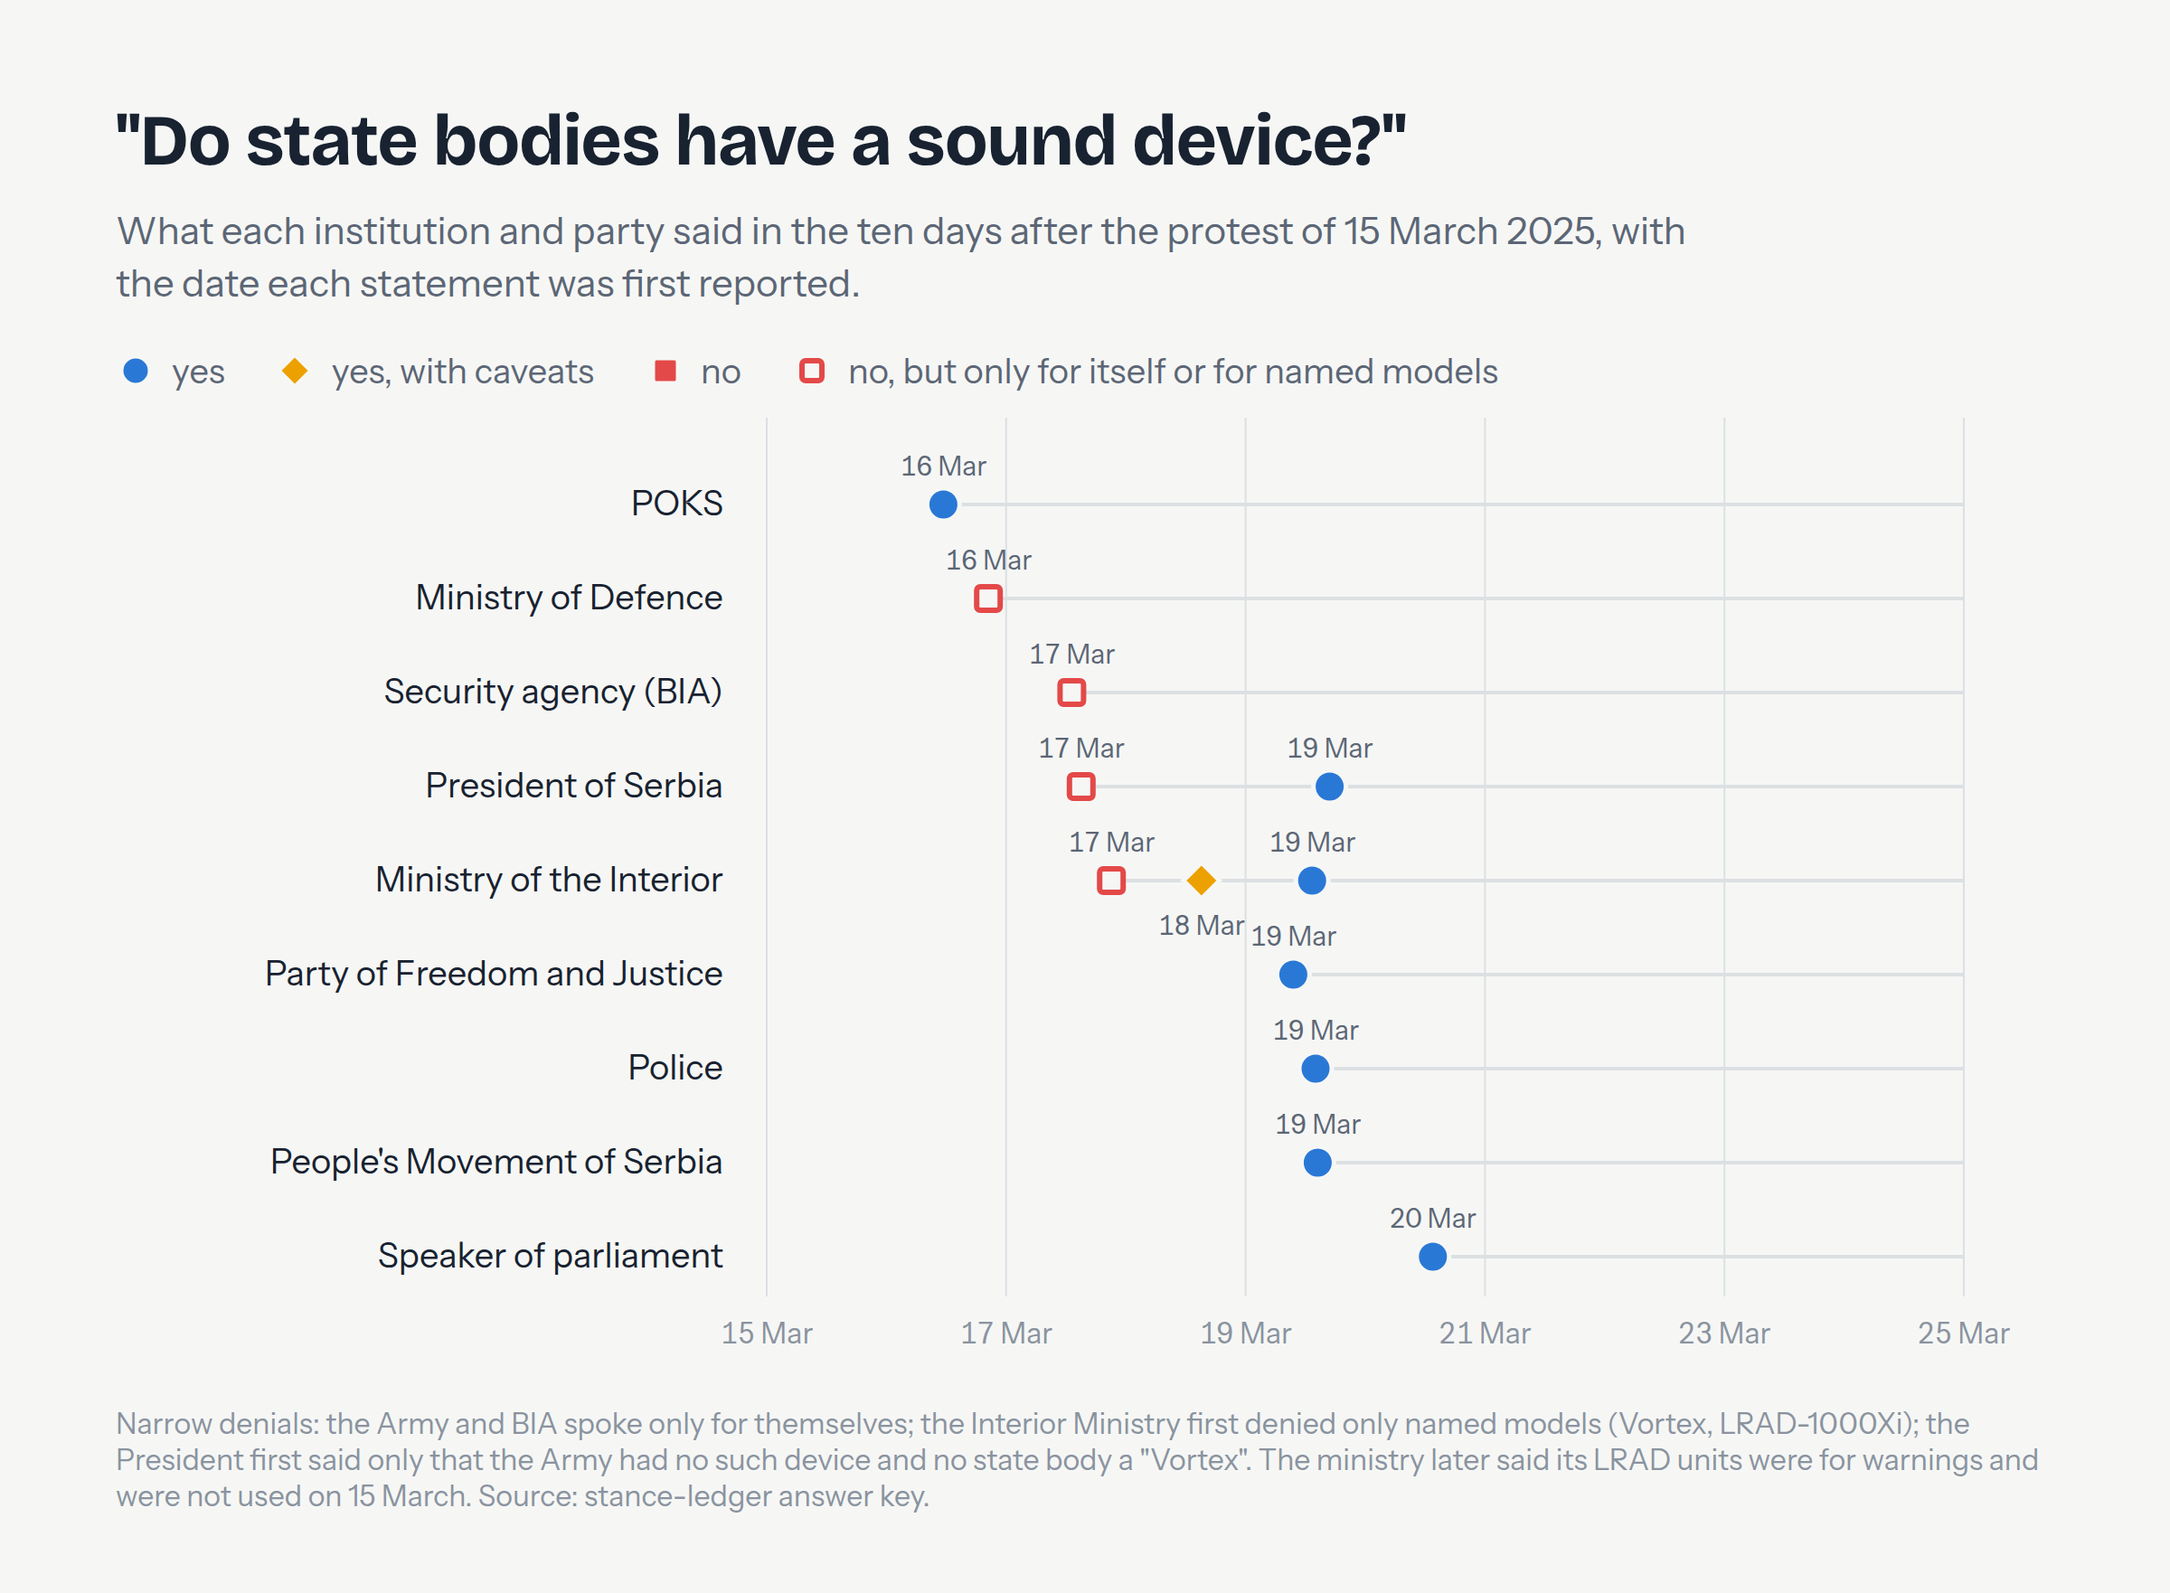
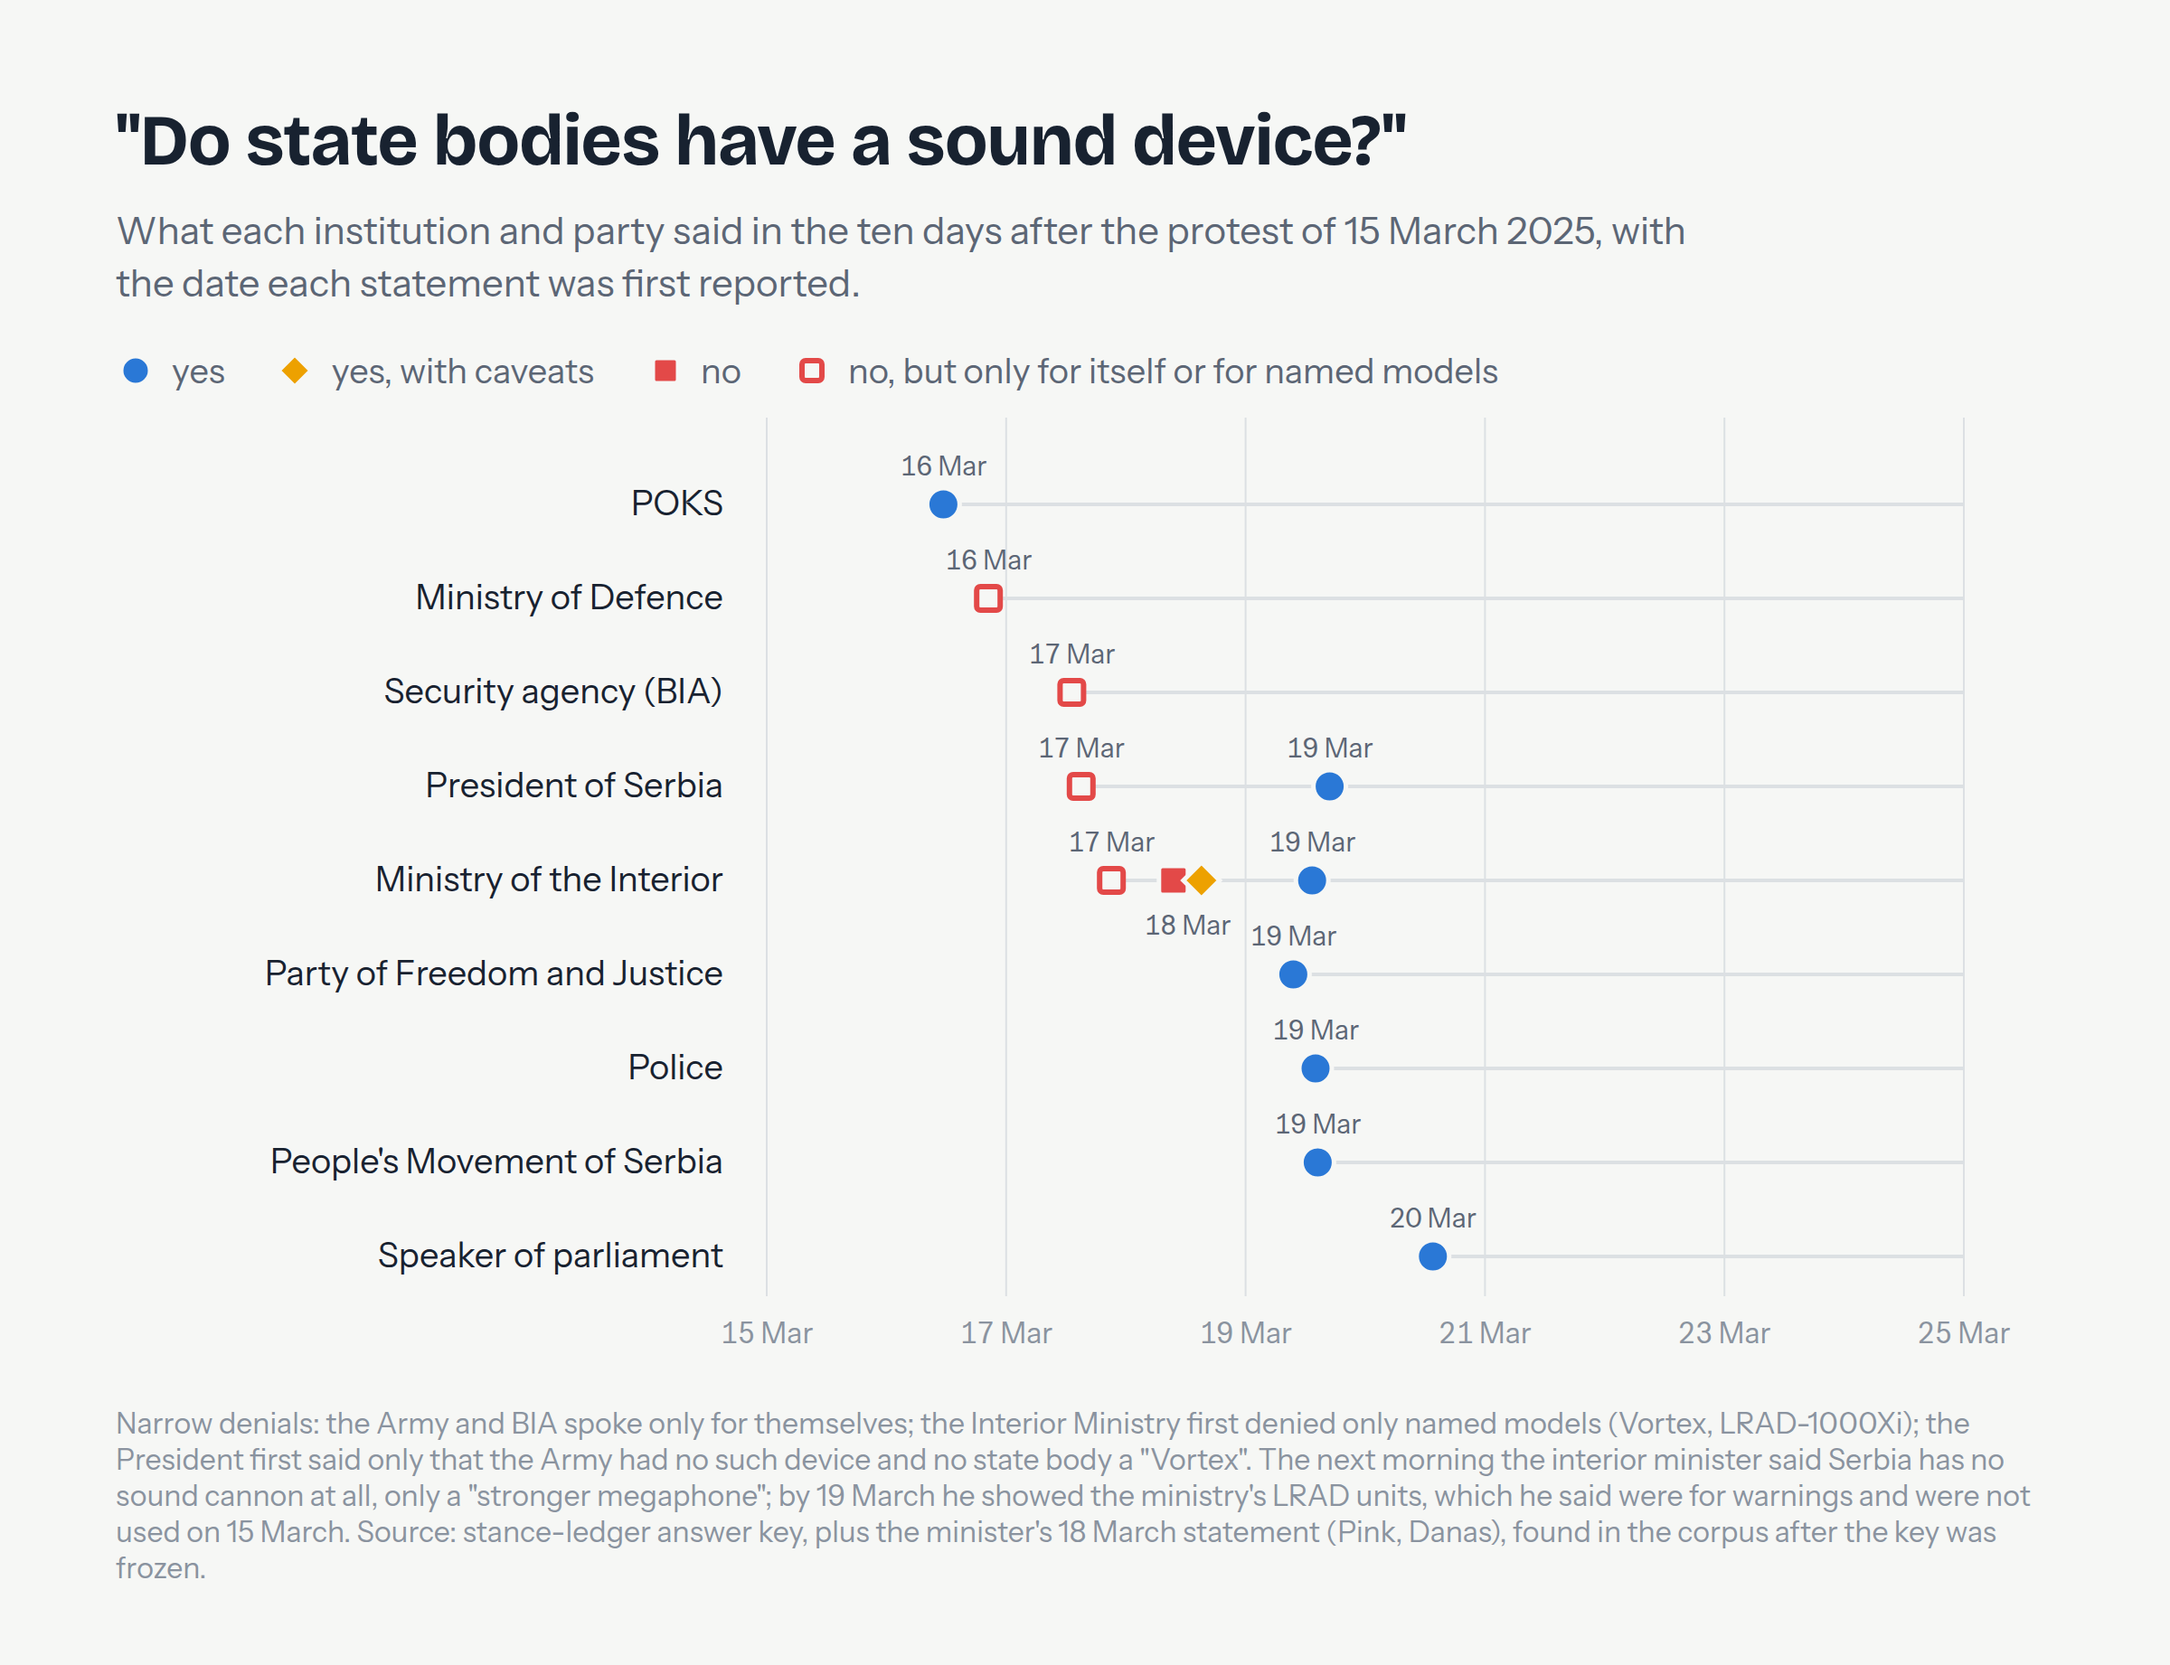
Sound-device figure: add the interior minister's 18 March denial; one date label per day
The corpus has a plain denial the answer key missed: on TV Prva on 18 March the minister said
Serbia and its police have no sound cannon, only a stronger megaphone (Pink, Danas). It is drawn
from CHART_EXTRA, so the answer key and every benchmark number are unchanged. Points reported on
the same day now share one date label, so the Interior row no longer overprints.

diff --git a/scripts/article_figures.py b/scripts/article_figures.py
@@ -119,10 +119,23 @@ LABEL = {  # figures the speaker relayed or cited rather than produced
 NARROW_DENIAL = {"T3-28", "T3-29", "T3-30", "T3-31"}  # denied only for itself or for named models
 
 
+# Statements found in the corpus after the answer key was frozen. They are drawn on the charts but
+# are not in data/gold, so every benchmark number stays computed on the published key.
+CHART_EXTRA = [
+    {"gid": "X-01", "proposition": "P6", "actor": "ministry_interior", "stance": "denies",
+     "first_published_at": "2025-03-18T09:31:59Z",
+     "evidence": ["https://www.pink.rs/politika/677964/dacic-srbija-nema-zvucni-top-samo-jaci-megafon-a-ni-to-ne-koristi",
+                  "https://www.danas.rs/vesti/drustvo/ima-topa-nema-topa-u-magacinu-je-ustvari-pored-skupstine-dacic-danima-ne-moze-da-se-dogovori-sam-sa-sobom/"],
+     "paraphrase_en": "On TV Prva the minister said Serbia and its police have no sound cannon, only a "
+                      "sound amplifier like a stronger megaphone, and that even that is not used."},
+]
+
+
 def chart_gold() -> list[dict]:
-    """The answer key, with narrow denials drawn as their own marker."""
+    """The answer key plus CHART_EXTRA, with narrow denials drawn as their own marker."""
+    extra = [{**g, "t": datetime.fromisoformat(g["first_published_at"])} for g in CHART_EXTRA]
     return [{**g, "stance": "denies_narrow"} if g["gid"] in NARROW_DENIAL and g["stance"] == "denies"
-            else g for g in gold()]
+            else g for g in gold() + extra]
 
 
 def row_label(actor: str, recs: list[dict]) -> str:
@@ -253,14 +266,24 @@ def timeline_svg(pid: str, start: datetime, end: datetime, width: int, max_actor
         pts = rows[actor]
         p.append(f'<text x="{left-24}" y="{y+6:.1f}" font-size="{fs}" fill="{T["ink"]}" text-anchor="end">{escape(row_label(actor, rows[actor]))}</text>')
         p.append(f'<line x1="{x(pts[0]["t"]):.1f}" x2="{right}" y1="{y:.1f}" y2="{y:.1f}" stroke="{T["rule"]}" stroke-width="2"/>')
-        prev_x, below = -1e9, False
+        # points reported on the same day share one date label, centred under or over them
+        groups: list[list[dict]] = []
         for g in pts:
-            gx = x(g["t"])
-            below = (not below) if gx - prev_x < 74 else False
-            prev_x = gx
-            p.append(shape(g["stance"], gx, y, 9))
+            if groups and groups[-1][-1]["t"].date() == g["t"].date():
+                groups[-1].append(g)
+            else:
+                groups.append([g])
+        prev_x, below = -1e9, False
+        for grp in groups:
+            xs = [x(g["t"]) for g in grp]
+            for g, gx in zip(grp, xs):
+                p.append(shape(g["stance"], gx, y, 9))
+            lx = sum(xs) / len(xs)
+            below = (not below) if xs[0] - prev_x < 74 else False
+            prev_x = xs[-1]
             ty = y + 30 if below else y - 16
-            p.append(f'<text x="{gx:.1f}" y="{ty:.1f}" font-size="{fs-4}" fill="{T["muted"]}" text-anchor="middle">{g["t"].day} {g["t"]:%b}</text>')
+            t0 = grp[0]["t"]
+            p.append(f'<text x="{lx:.1f}" y="{ty:.1f}" font-size="{fs-4}" fill="{T["muted"]}" text-anchor="middle">{t0.day} {t0:%b}</text>')
     p.append("</svg>")
     return "".join(p)
 
@@ -276,8 +299,11 @@ def sound_html() -> str:
             + '<p class="src">Narrow denials: the Army and BIA spoke only for themselves; the '
               'Interior Ministry first denied only named models (Vortex, LRAD-1000Xi); the President '
               'first said only that the Army had no such device and no state body a "Vortex". The '
-              'ministry later said its LRAD units were for warnings and were not used on 15 March. '
-              'Source: stance-ledger answer key.</p>')
+              'next morning the interior minister said Serbia has no sound cannon at all, only a '
+              '"stronger megaphone"; by 19 March he showed the ministry\'s LRAD units, which he said '
+              'were for warnings and were not used on 15 March. Source: stance-ledger answer key, plus '
+              'the minister\'s 18 March statement (Pink, Danas), found in the corpus after the key was '
+              'frozen.</p>')
     return page(body)
 
 
